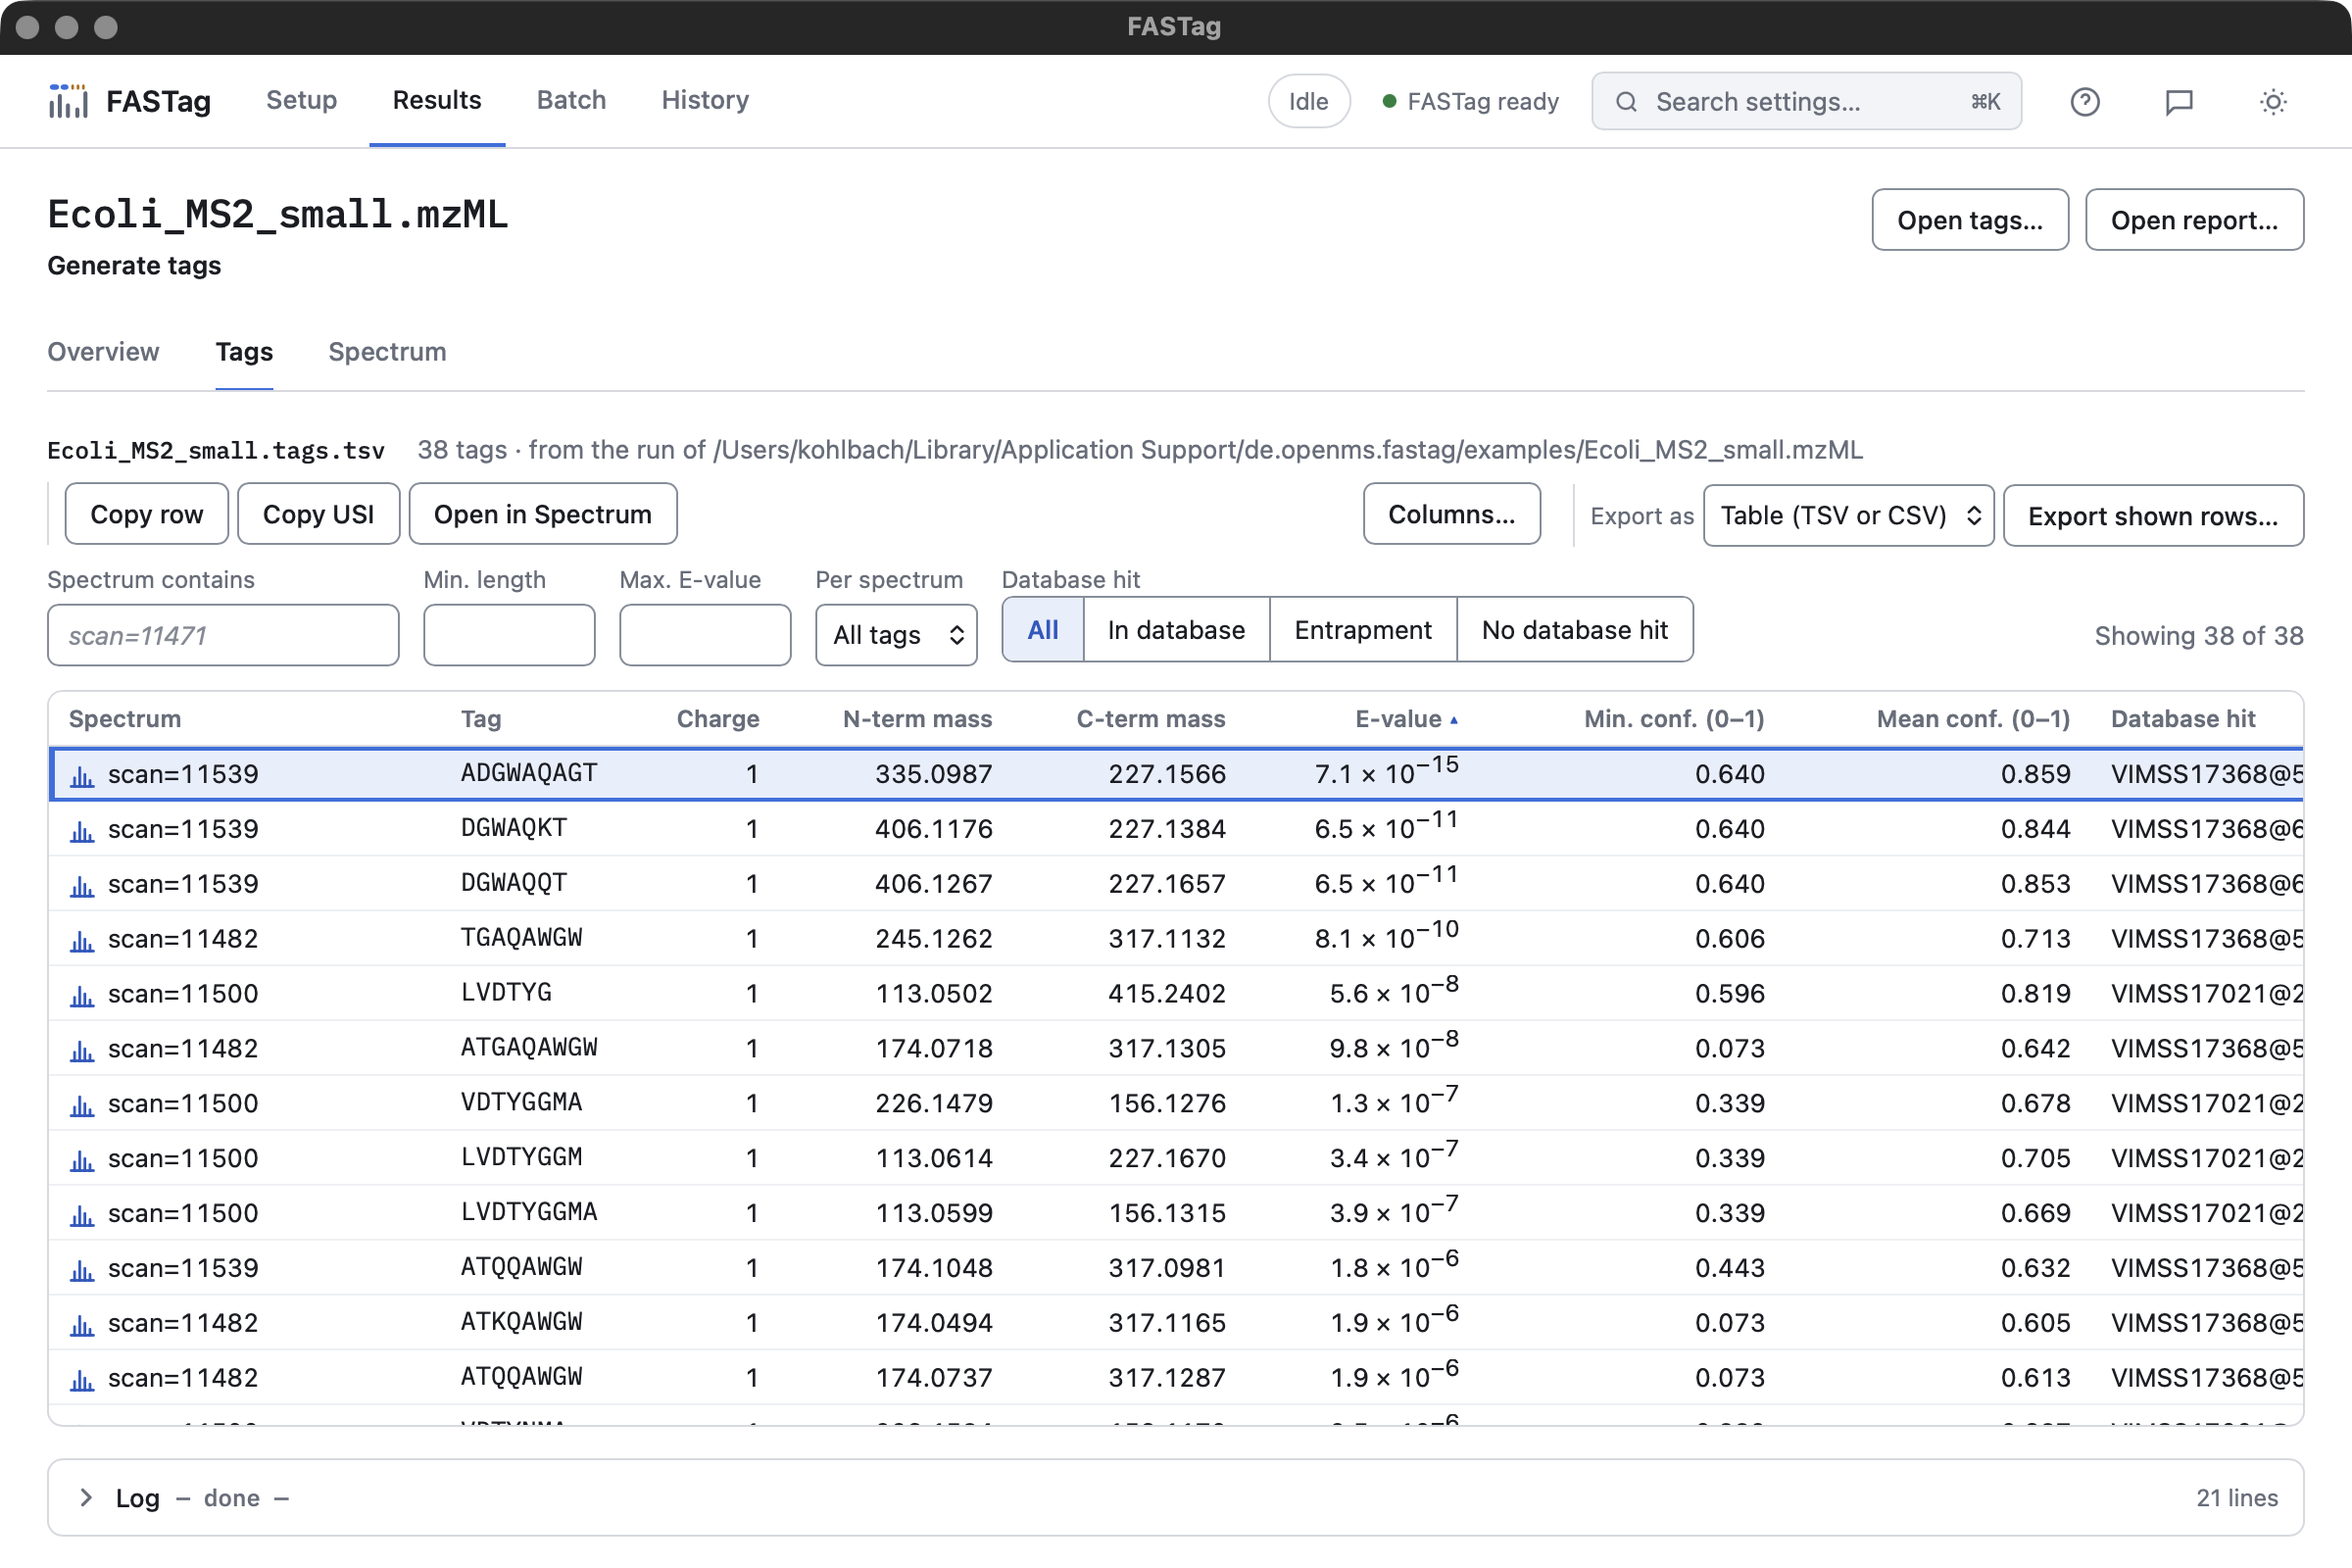
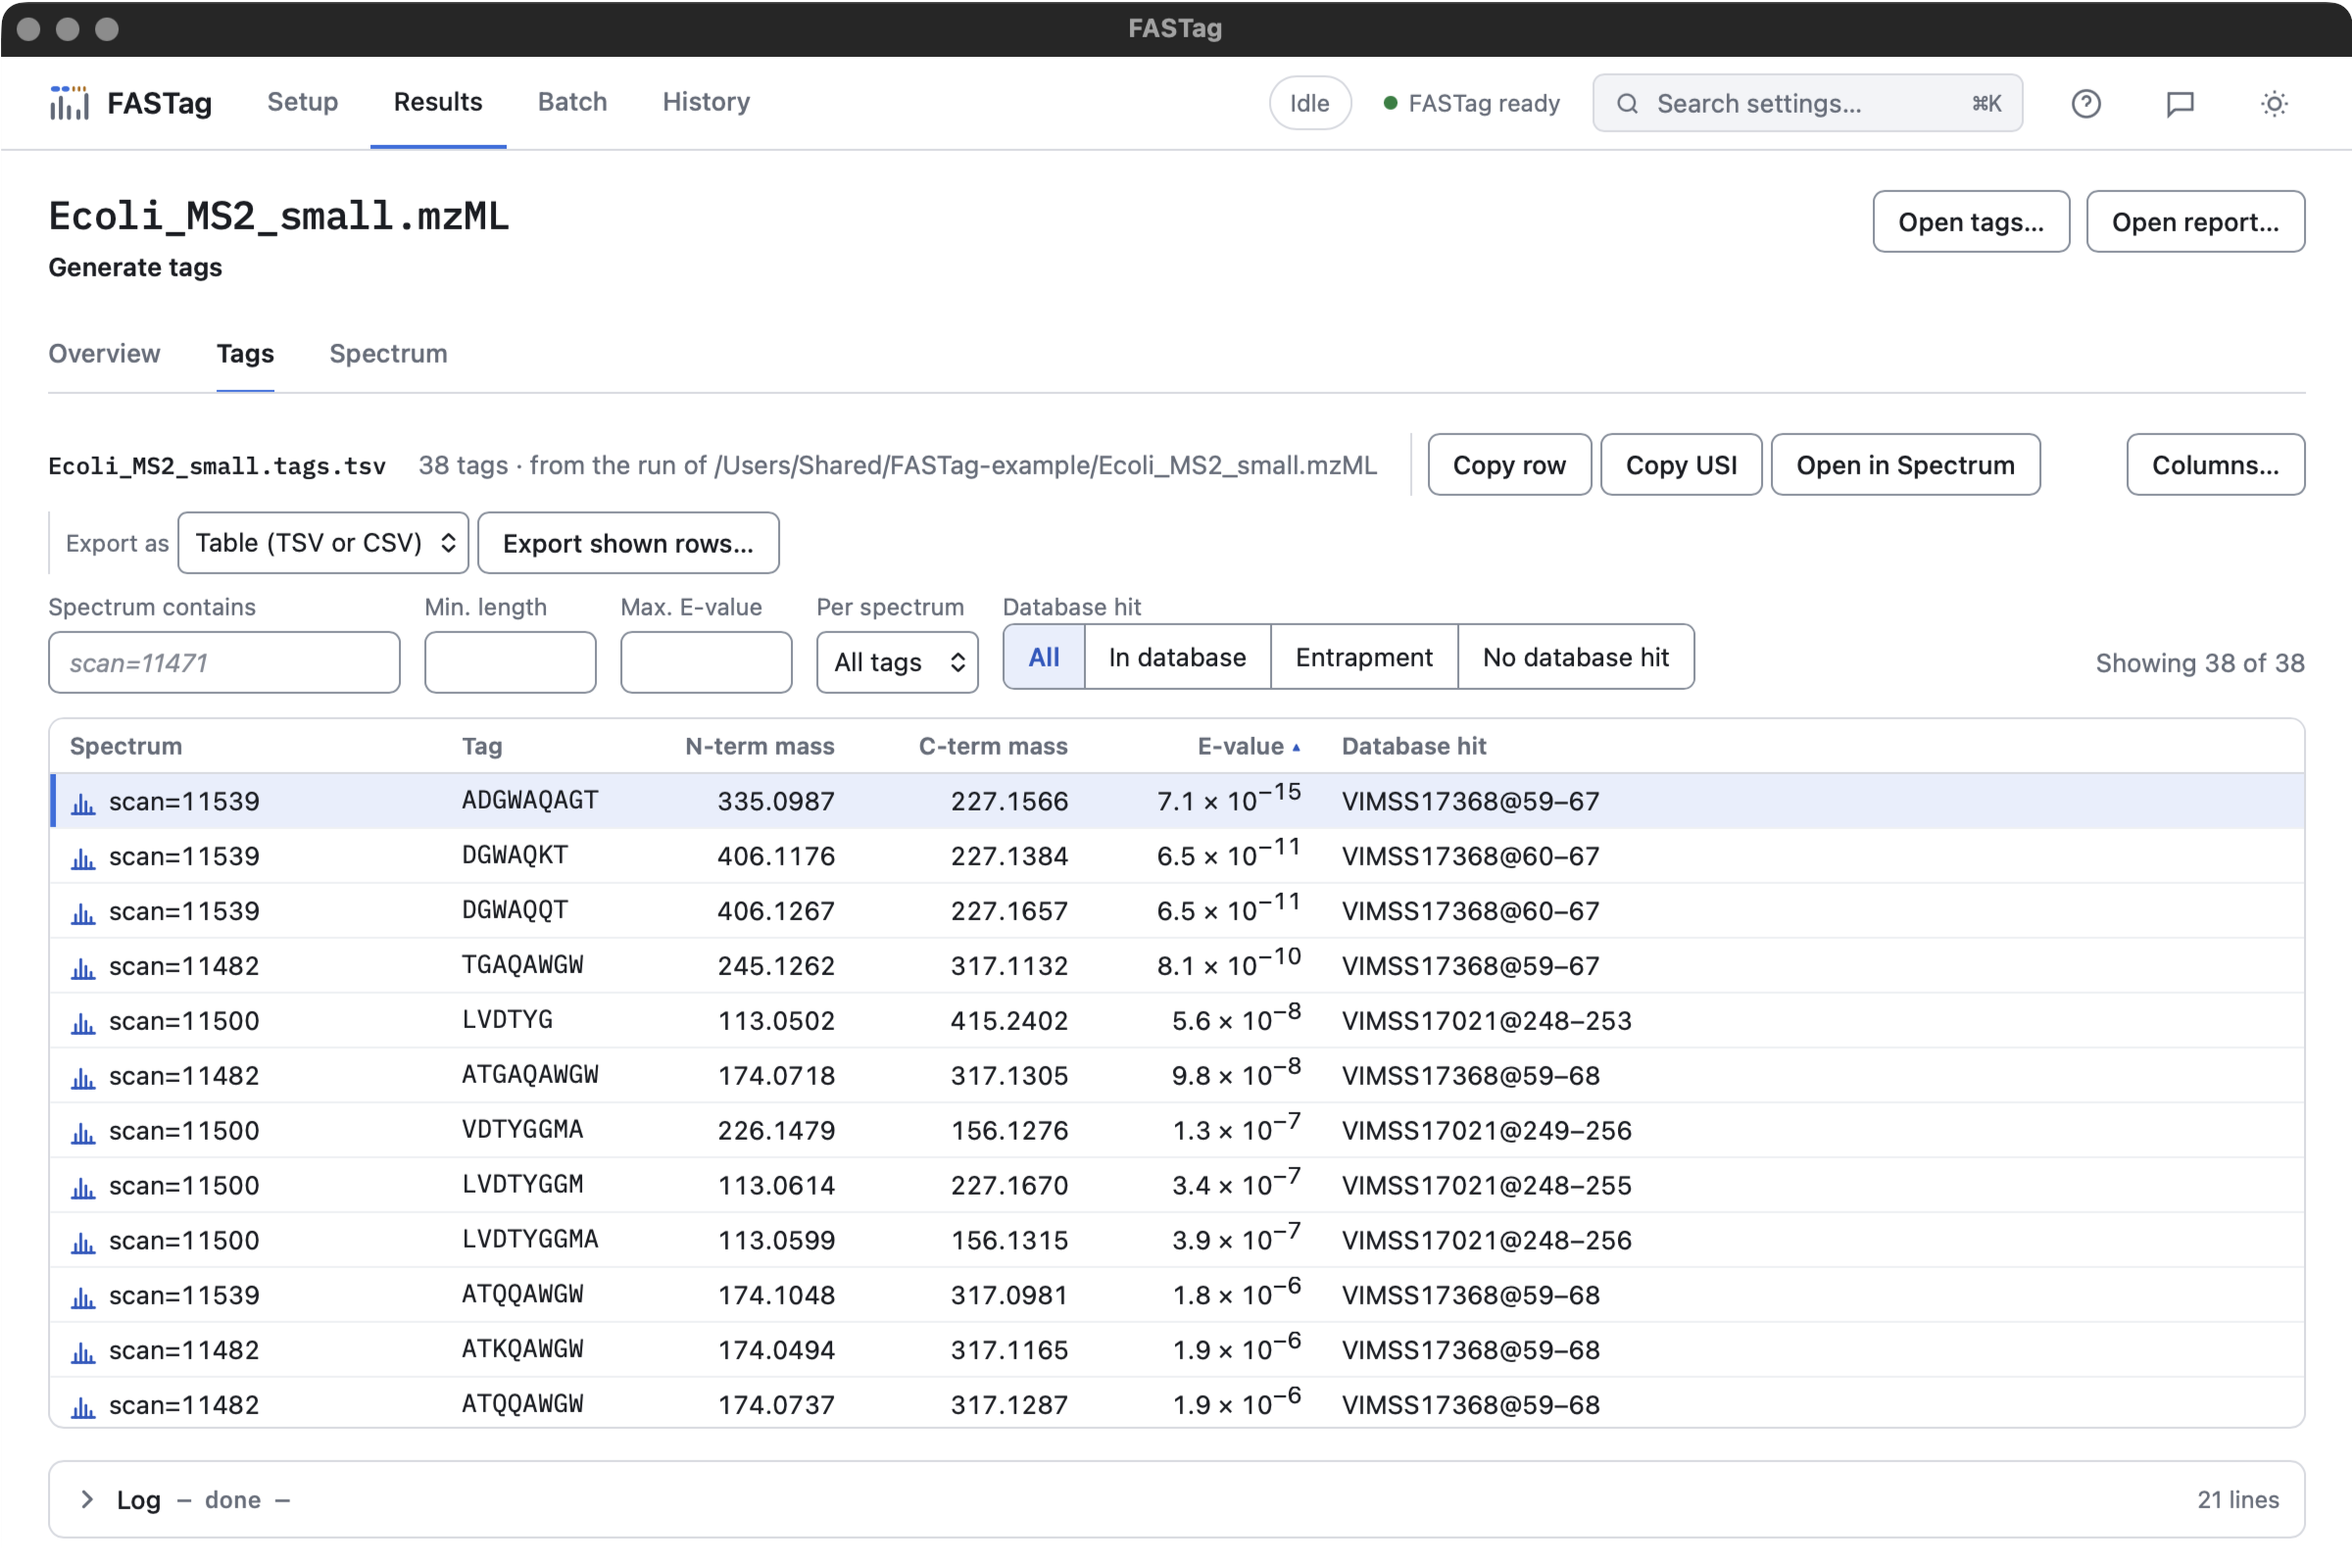
Manual: neutral example folder, readable database hits, alignment in view
01 and 03 retaken with the example in /Users/Shared/FASTag-example (no
home path on the images). 03 hides Charge and the two confidence
columns so Database hit shows whole entries. 04 is scrolled so the
ladder plot and the first rows of the database alignment are both
above the Log bar. The alkylation sentence quotes the Overview tile.

diff --git a/doc/MANUAL.md b/doc/MANUAL.md
@@ -85,7 +85,9 @@ reports. The screenshots use PXD000001 (an *Erwinia carotovora* lysate, trypsin,
 The **Alkylation report** (step 4, on by default) needs no protein database and no shipped
 proteome: it reads the cysteine forms in the tags. Its votes need a cysteine inside a tag, so a
 larger Extension gives more; with Spectra to read set to 10% at Extension 2 it often says "no call"
-with the counts. On all of PXD000001 at Extension 2 it calls Methylthio (MMTS), 52 of 69 votes.
+with the counts. On all of PXD000001 at Extension 2 it calls Methylthio (MMTS): the Overview tile
+reads "75.36% of 69 tag votes (57 for a form, 1 conflicted, 11 abstained)", that is 52 of the 69
+votes for Methylthio.
 
 ![Setup for a survey](images/manual-05-setup-characterize.png)
 
